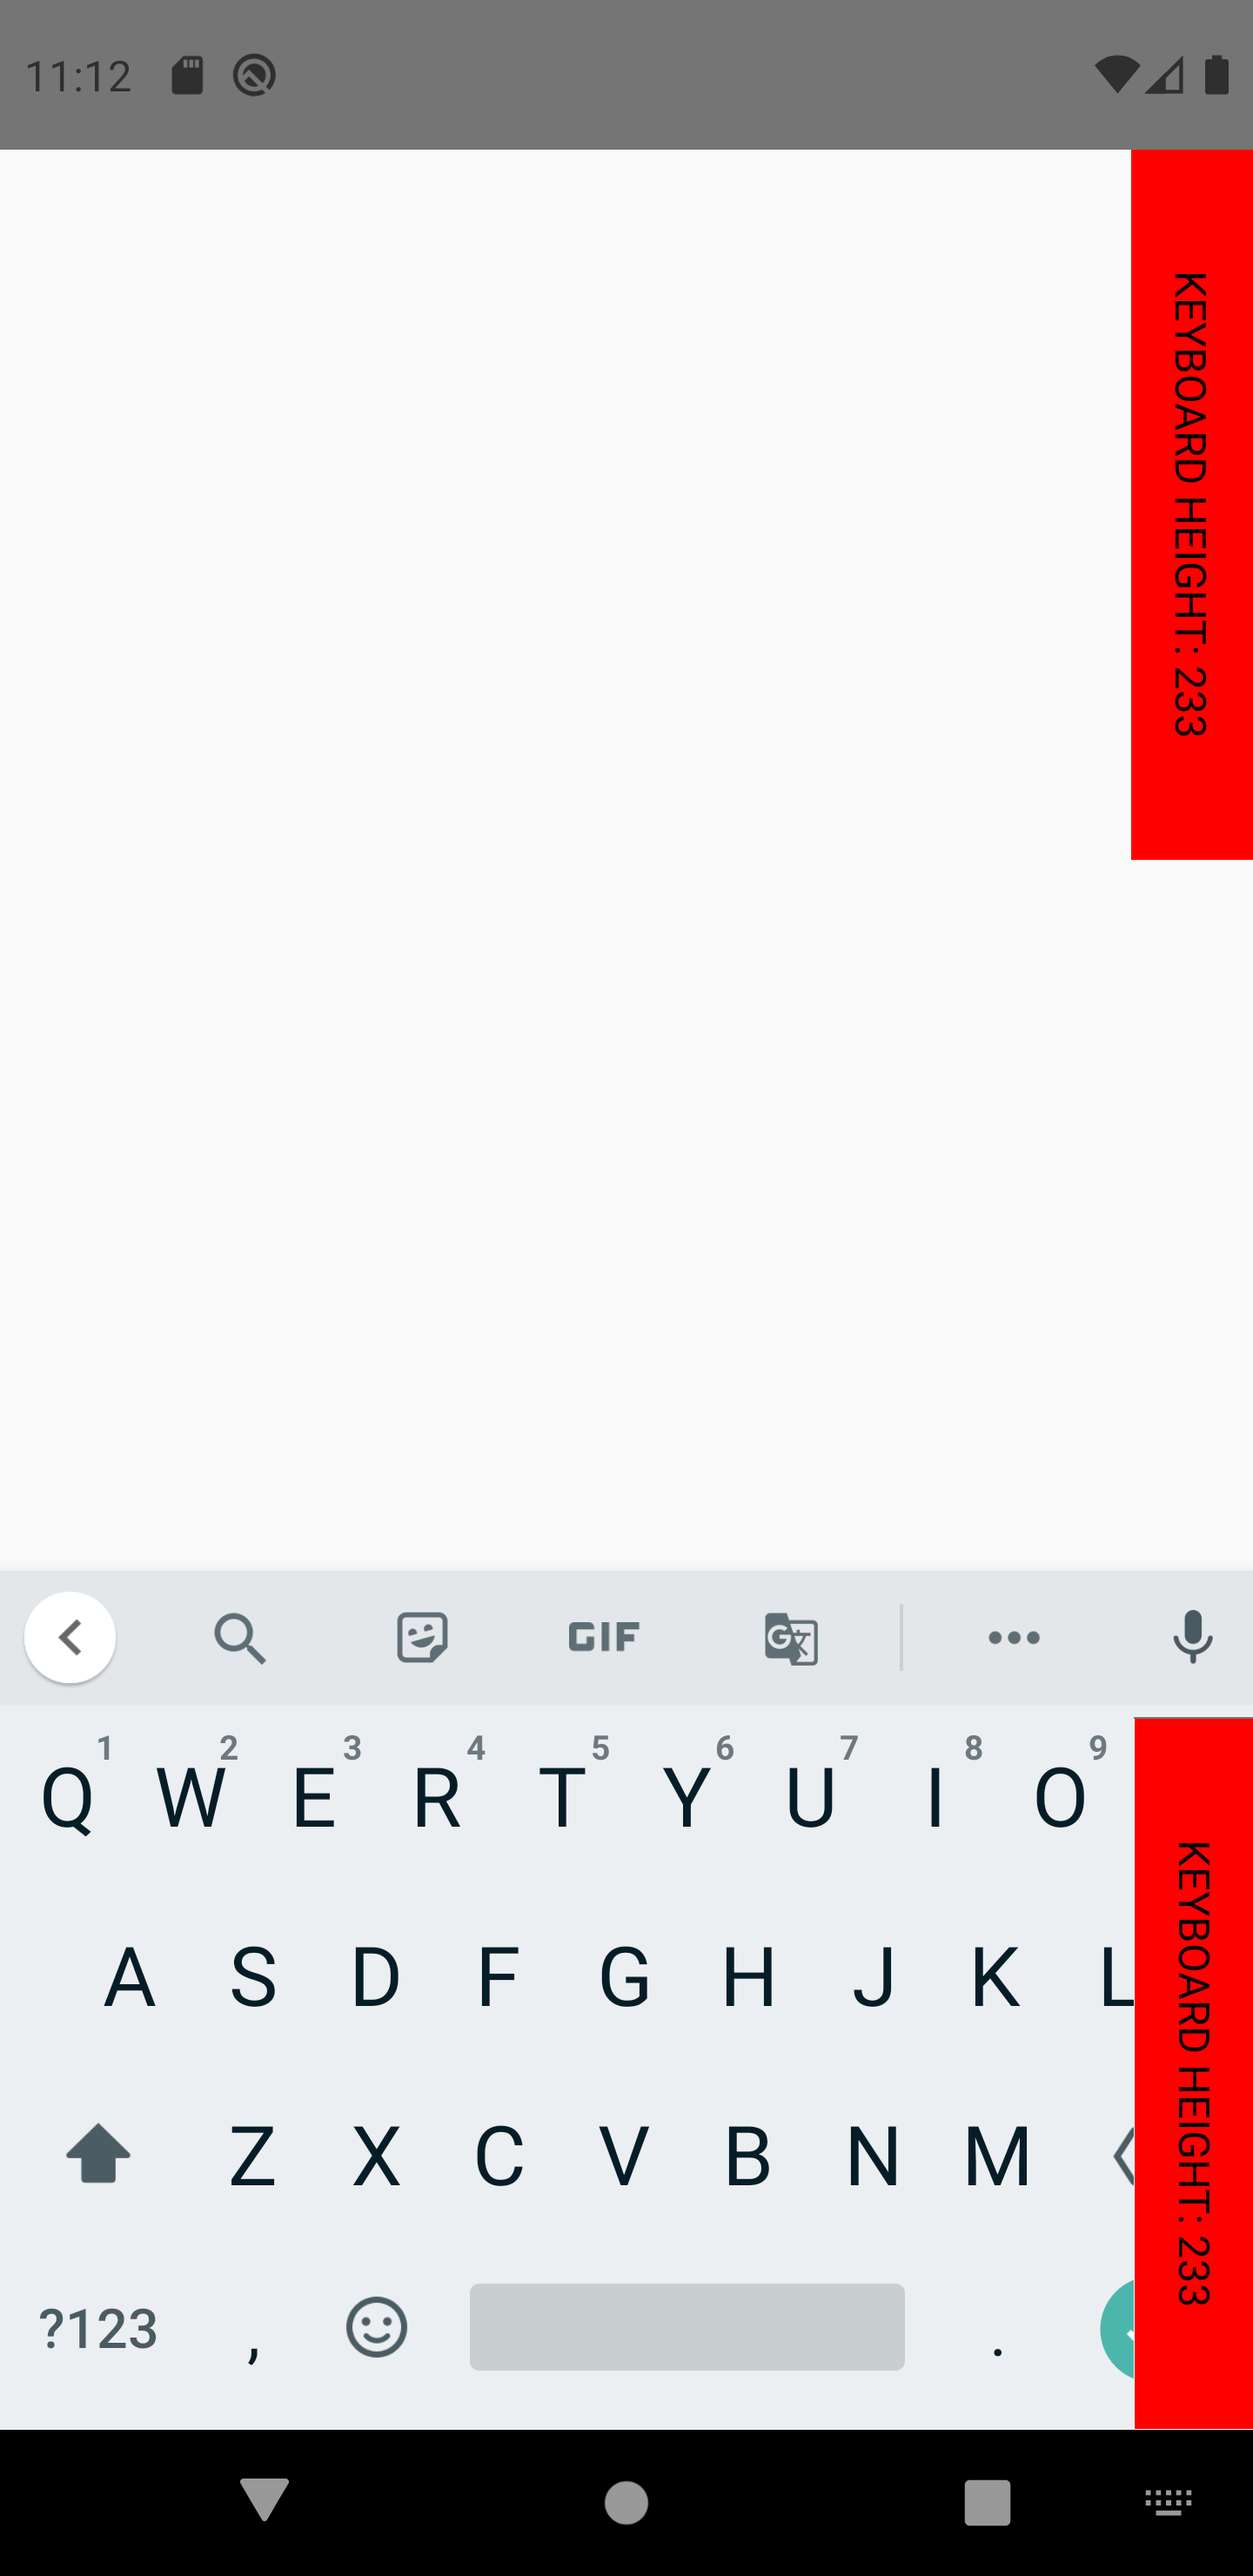
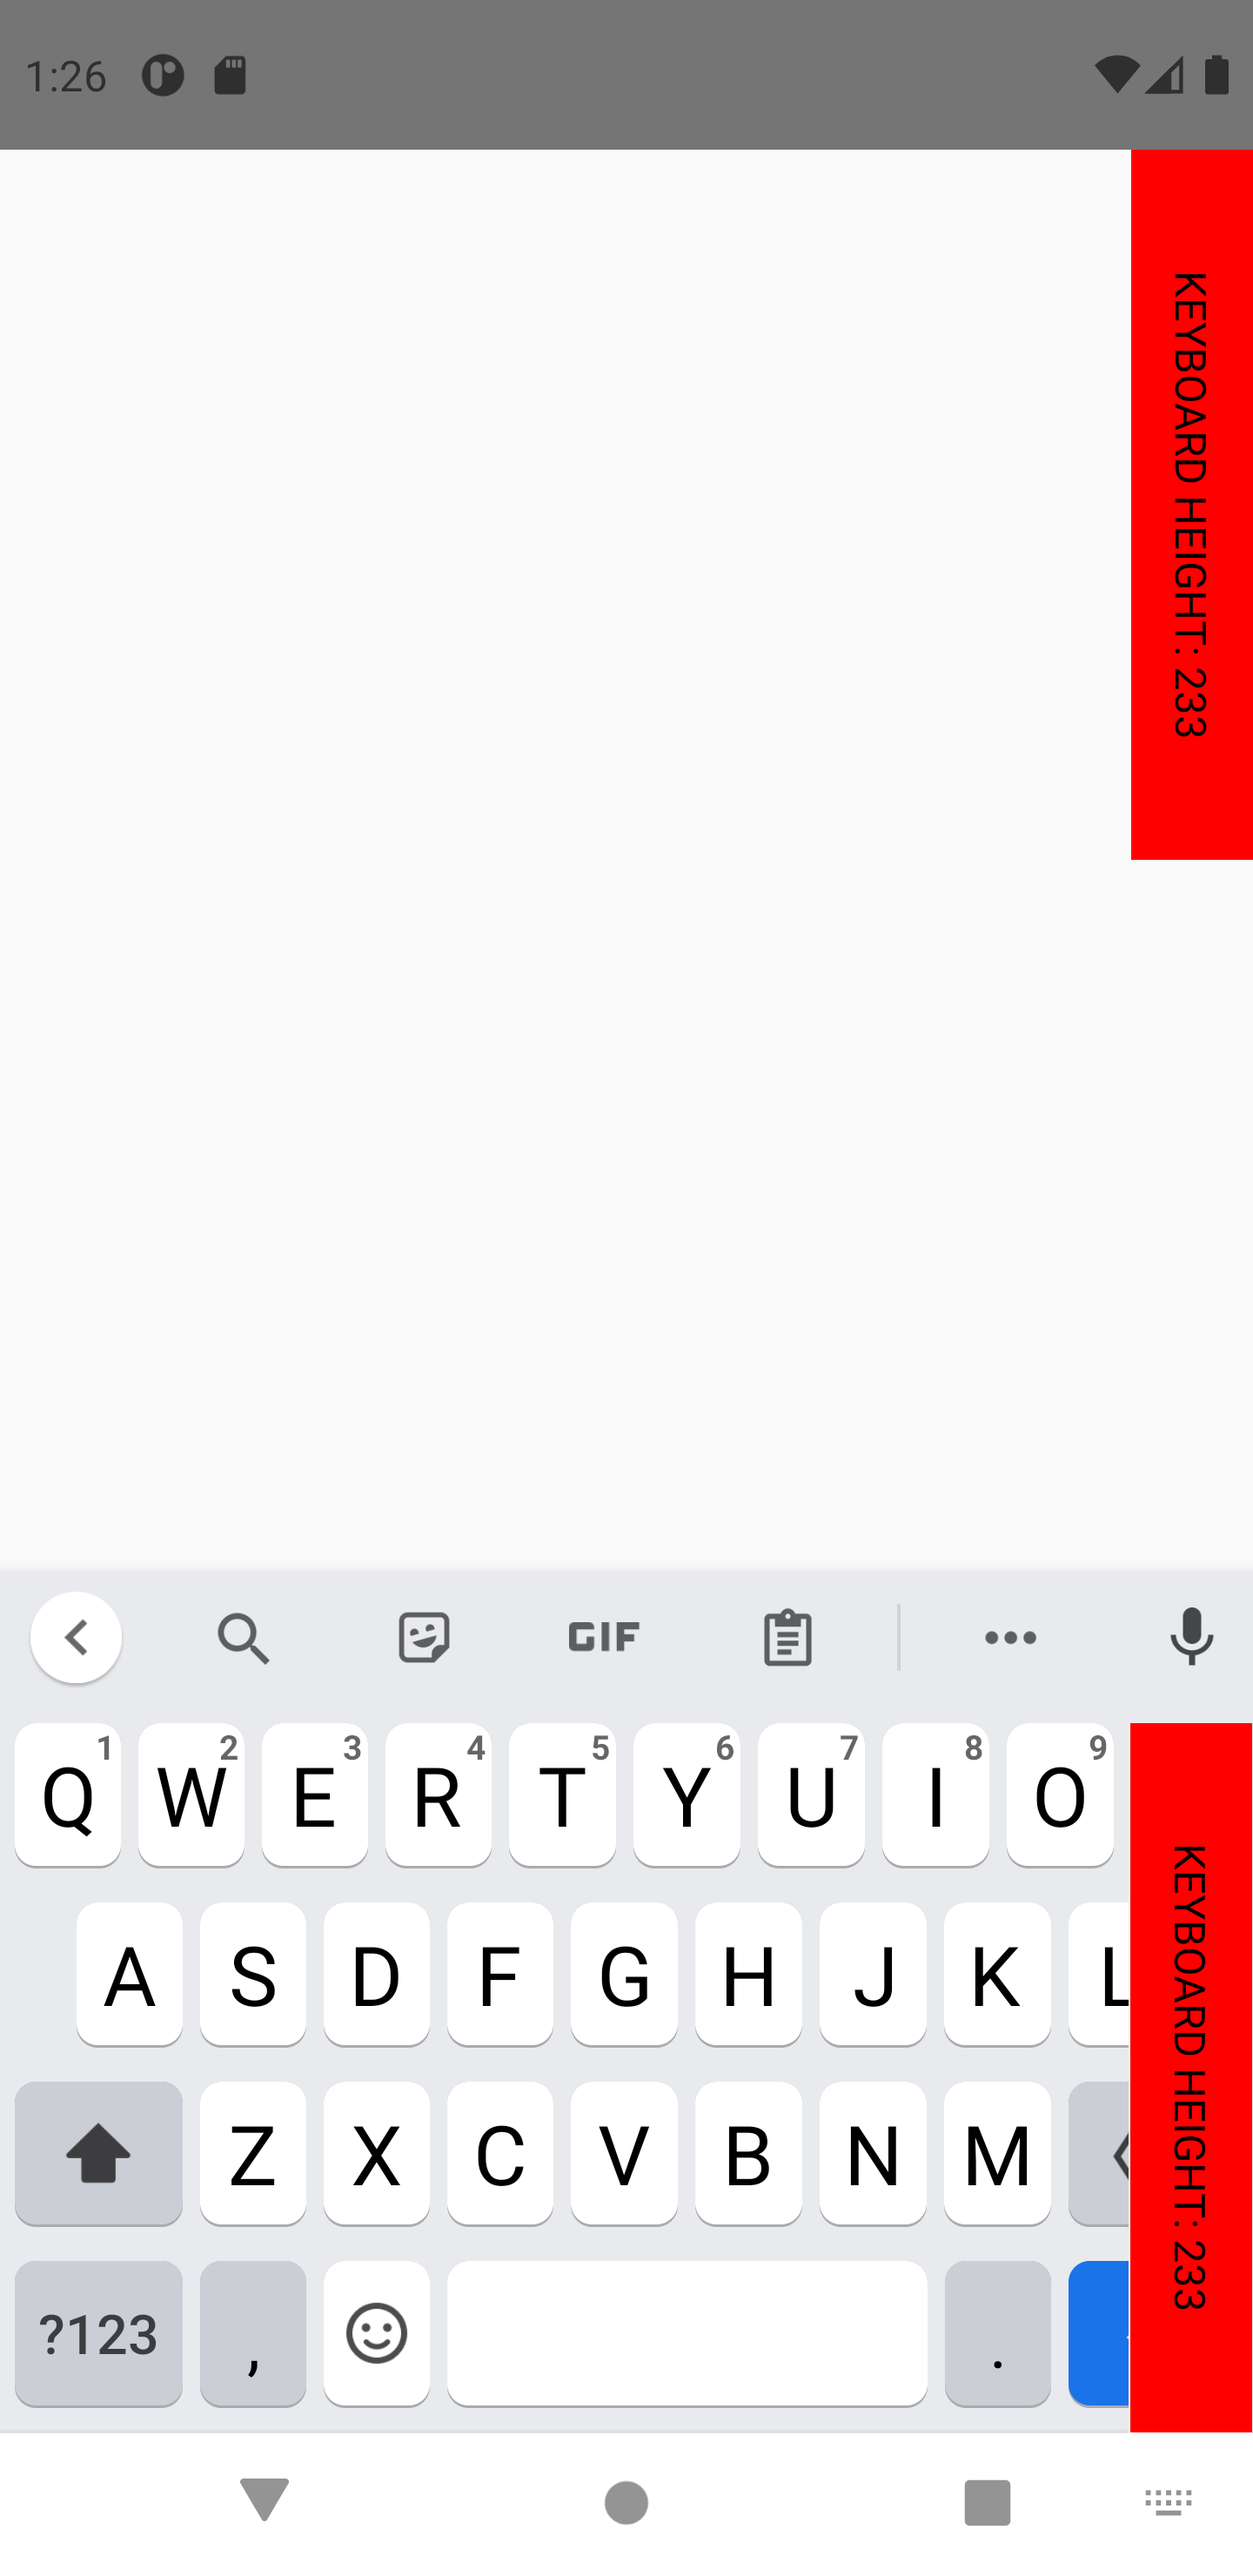
update pixel screenshot to Android 11

diff --git a/README.MD b/README.MD
@@ -1,4 +1,4 @@
-# Keyboard.addListener('keyboardDidShow', ...) callback is invoked with inaccurate measures in devices with notches on Android 10
+# Keyboard.addListener('keyboardDidShow', ...) callback is invoked with inaccurate measures in devices with notches on Android 10+
 
 ## Incriminated API
 
@@ -22,8 +22,8 @@ In `AndroidManifest.xml`, set `android:windowSoftInputMode="adjustPan"`.
 
 <table>
     <tr>
-        <th>Emulator, Pixel 3 XL, Android 10 (simulator)</th>
-        <th>Nexus 5X, Android 10 (simulator)</th>
+        <th>Pixel 3XL (with notch), Android 11 (emulator)</th>
+        <th>Nexus 5X, Android 11 (emulator)</th>
     </tr>
     <tr>
         <td valign="top"><img src="images/pixel-3xl.png" width="400"></td>
